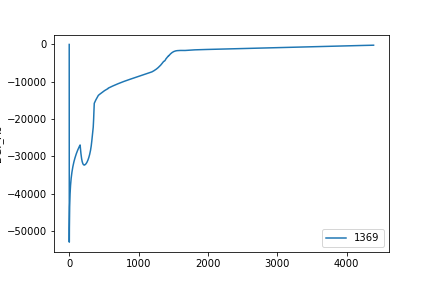
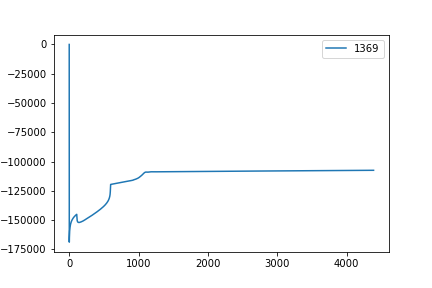
Einheiten Stimmen

diff --git a/Thermomicrobentest.py b/Thermomicrobentest.py
@@ -60,17 +60,15 @@ def thermodynamics(educt_dict, product_dict, microbe_dict):
     Q_educts = 1.0
     for name, educt in educt_dict.items():
         DGf_educt += educt['DGf']
-        Q_educts *= (1*educt['concentration'])**educt['Stoch']
-        # print(name,educt['concentration'], (1e-6*educt['concentration'])**educt['Stoch'])
-
-        
+        Q_educts *= (1e-6*educt['concentration'])**educt['Stoch']
+        # print(name,educt['concentration'], (1e-6*educt['concentration'])**educt['Stoch']) 
     DGf_product = 0
     Q_products = 1.0
     for name, product in product_dict.items():
         DGf_product += product['DGf']
-        Q_products *= (1*product['concentration'])**product['Stoch']
+        Q_products *= (1e-6*product['concentration'])**product['Stoch']
         #print(name,product['concentration'], product['concentration']**product['Stoch'])
-        
+    
     if Q_educts <= 0:
       # print('Q educts = 0, return 0.0')
        return 0.0, 110000000.0
@@ -79,6 +77,7 @@ def thermodynamics(educt_dict, product_dict, microbe_dict):
         #print('Q = 0 for products, return 1')
         return 1.0, 100000000.0
     #print('The Q value is', Q_products/Q_educts)
+    
     
     try:
         log_Q = np.log( Q_products/Q_educts )
@@ -96,11 +95,12 @@ def thermodynamics(educt_dict, product_dict, microbe_dict):
     DGr = DGs + R * T * log_Q
    # print('DGr', DGr)
    
-    DGmin = -26.0
+    DGmin = -26.0 *1e3 # J⋅mol-1
     if DGr > DGmin:
         #print('minimum not reached, return 0', DGr - DGmin)
         return 0.0, DGr
     #print(DGr)
+    
     
     return 1 - np.exp((DGr - DGmin)/(R*T)) , DGr
 
@@ -236,12 +236,12 @@ def GeneralPathway(microbe_dict, educt_dict, product_dict, pathway_name = ''):
     dead_microbes = Biomass*microbe_dict['death_rate']
     #biomass_change = - dead_microbes  + Biomass* W_max *actual_reaction_rate *C_for_growth* 12.011/1000
     
-    biomass_change = - dead_microbes  +  C_for_growth * 12.011/1000 # Gewicht 1 Mol C =  12.011 g /mol 
+    biomass_change = - dead_microbes  +  C_for_growth * m_C #  m_C Gewicht 1 Mol C =  12.011 g /mol 
     pool_change_dict['biomass'] = biomass_change
     # print(biomass_change)
     # input('biomass '+pathway_name)
     #print(DGr_Ausgabe)
-    pool_change_dict['DGr'] = DGr_Ausgabe
+    pool_change_dict['DGr'] = DGr_Ausgabe*1e-3 # umrechnung von J/mol nach kJ/mol für den plot
     #print(pool_change_dict['DGr'])
     return pool_change_dict
 
@@ -368,13 +368,13 @@ def Fe3_Pathway(pool_dict,model_parameter_dict):
     
     educt_dict =  {'Acetate'       : {'concentration':pool_dict['Acetate'],
                                     'Stoch'          : 1                  ,
-                                    'DGf'            : -369.31            ,
+                                    'DGf'            : -369.31*1e3        ,
                                     'Km'             : 0.01 / SOIL_DENSITY, #0.01 / SOIL_DENSITY # wert nach Roden 2003 10 mal kleiner als bei Ace (0.8). Aber passt vlt nicht mehr mit den anderen werten zusammen
                                     'C_atoms'      : 2                    }, 
     
                       'Fe3'        :{'concentration':pool_dict['Fe3'] ,
                                    'Stoch'          : 8                   ,
-                                   'DGf'            : -4.7                ,
+                                   'DGf'            : -4.7*1e3            ,
                                    'Km'             : 0                   }} # TODO WISO 0 ? 
                      
     
@@ -389,11 +389,11 @@ def Fe3_Pathway(pool_dict,model_parameter_dict):
     
     product_dict = { 'Fe2' : {'concentration': pool_dict['Fe2'],
                               'Stoch'        : 8               ,
-                              'DGf'          : -89.1           }  ,#https://www.engineeringtoolbox.com/standard-state-enthalpy-formation-definition-value-Gibbs-free-energy-entropy-molar-heat-capacity-d_1978.html
+                              'DGf'          : -89.1*1e3           }  ,#https://www.engineeringtoolbox.com/standard-state-enthalpy-formation-definition-value-Gibbs-free-energy-entropy-molar-heat-capacity-d_1978.html
                     
                      'CO2' : {'concentration': dissolved_CO2,
                               'Stoch'        : 2               ,
-                              'DGf'          : -394.36                 }  , #Vaxa
+                              'DGf'          : -394.36*1e3                 }  , #Vaxa
                          
                       'H2' : {'concentration': dissolved_H2,
                               'Stoch'        : 0              ,
@@ -443,13 +443,13 @@ def Hydro_Pathway(pool_dict,model_parameter_dict):
     
                   'CO2'  :{'concentration': dissolved_CO2,
                            'Stoch'        : 1                                ,
-                           'DGf'          : -394.36                          ,
+                           'DGf'          : -394.36*1e3                          ,
                            'Km'           : 0.05/SOIL_DENSITY  , # 0.05 mikromol pro cm^3 from Song
                            'C_atoms'      : 1                 }}
     
     product_dict = {'CH4' :{'concentration': dissolved_CH4 , # auf 0 weil es in den Headspace diffundiert
                             'Stoch'        : 1                ,
-                            'DGf'          : -50.8}          }
+                            'DGf'          : -50.8*1e3}          }
    
     
     pool_change_dict = GeneralPathway(microbe_dict, educt_dict, product_dict, 'Hydro')
@@ -490,13 +490,13 @@ def Homo_Pathway(pool_dict,model_parameter_dict):
     
                   'CO2'  :{'concentration' : dissolved_CO2         ,
                            'Stoch'         : 2                     ,
-                           'DGf'           : -394.36               ,
+                           'DGf'           : -394.36*1e3               ,
                            'Km'            : 0.05 / SOIL_DENSITY   ,  # 0.05 from Song, laut (van1999efFe3cts) größer als Hydro, laut schink1997energetics sollte der Wert mit sinkender Temp, mit zunehmendem Acetate und sinkendem PH sinken (Im vlg zu Hydro)
                            'C_atoms'      : 1                 }}
     
     product_dict = {'Acetate' : {'concentration': pool_dict['Acetate'] ,
                                  'Stoch'        : 1                    ,
-                                 'DGf'          : -369.31}             , }
+                                 'DGf'          : -369.31*1e3}             , }
    
     
     pool_change_dict = GeneralPathway(microbe_dict, educt_dict, product_dict, 'Homo')
@@ -524,7 +524,7 @@ def Ac_Pathway(pool_dict,model_parameter_dict):
     
     educt_dict = { 'Acetate' : {'concentration': pool_dict['Acetate']    ,
                                 'Stoch'        :  1                     ,
-                                 'DGf'         : -369.31                ,
+                                 'DGf'         : -369.31*1e3                ,
                                  'Km'          :  0.05 / SOIL_DENSITY   , #0.05 / SOIL_DENSITY   # 0.05 from song, Wert sollte 10 mal höher sein als bei AltE laut roden2003 bei 12Mikromol !!!!
                                  'C_atoms'      : 2                 }}
     
@@ -537,11 +537,11 @@ def Ac_Pathway(pool_dict,model_parameter_dict):
                       
     product_dict = { 'CH4' : {'concentration': dissolved_CH4, #auf 0, weil es in den Headspace diffundiert
                               'Stoch'        : 1               ,
-                              'DGf'          : -50.8          }, # wert aus Vaxa
+                              'DGf'          : -50.8*1e3          }, # wert aus Vaxa
                     
                      'CO2' : {'concentration': dissolved_CO2,
                               'Stoch'        : 1               ,
-                              'DGf'          :-394.36         } }
+                              'DGf'          :-394.36*1e3         } }
 
     
     pool_change_dict = GeneralPathway(microbe_dict, educt_dict, product_dict, 'Ac')

diff --git a/Thermorefactored.py b/Thermorefactored.py
@@ -724,43 +724,43 @@ def run_my_model(specimens, Site = "all"):#, Cpool_init = 5555.5):
    # input() 
    
    
-# ============PLOTTINg=================================================================
-#    
-#     #return None # exit before plotting to save time when profiling
-#    
-#     for k,v in pool_value_dict.items():
-#         #
-#         #print('the length is:',len(pool_value_dict['CO2']))
-#         plt.figure()
-#         plt.plot(all_days,v,'.')
-#         plt.ylabel(k)
-#          
-#     all_CO2_contributers = dict()
-#     for pool_name, pool_curve in pool_value_dict.items():
-#         if "CO2" in pool_name:
-#             all_CO2_contributers[pool_name] = pool_curve
-#     plt.figure()
-#     for pool_name, pool_curve in all_CO2_contributers.items():
-#         plt.plot( pool_curve, label= pool_name)
-#     plt.legend()    
-#         
-#     all_CH4_contributers = dict()
-#     for pool_name, pool_curve in pool_value_dict.items():
-#         if "CH4" in pool_name:
-#             all_CH4_contributers[pool_name] = pool_curve
-#     plt.figure()
-#     for pool_name, pool_curve in all_CH4_contributers.items():
-#         plt.plot( pool_curve, label= pool_name)
-#     plt.legend()
-#     
-#     plt.figure()
-#     plt.plot( Realdata['measured_time'],Realdata['CH4'],'ro')
-#     plt.plot(pool_value_dict['CH4'])
-#     plt.figure()
-#     plt.plot( Realdata['measured_time'], Realdata['CO2'],'bo')
-#     plt.plot(pool_value_dict['CO2'])
-#     
-# =============================================================================
+#============PLOTTINg=================================================================
+    
+    #return None # exit before plotting to save time when profiling
+    
+    for k,v in pool_value_dict.items():
+        #
+        #print('the length is:',len(pool_value_dict['CO2']))
+        plt.figure()
+        plt.plot(all_days,v,'.')
+        plt.ylabel(k)
+          
+    all_CO2_contributers = dict()
+    for pool_name, pool_curve in pool_value_dict.items():
+        if "CO2" in pool_name:
+            all_CO2_contributers[pool_name] = pool_curve
+    plt.figure()
+    for pool_name, pool_curve in all_CO2_contributers.items():
+        plt.plot( pool_curve, label= pool_name)
+    plt.legend()    
+        
+    all_CH4_contributers = dict()
+    for pool_name, pool_curve in pool_value_dict.items():
+        if "CH4" in pool_name:
+            all_CH4_contributers[pool_name] = pool_curve
+    plt.figure()
+    for pool_name, pool_curve in all_CH4_contributers.items():
+        plt.plot( pool_curve, label= pool_name)
+    plt.legend()
+    
+    plt.figure()
+    plt.plot( Realdata['measured_time'],Realdata['CH4'],'ro')
+    plt.plot(pool_value_dict['CH4'])
+    plt.figure()
+    plt.plot( Realdata['measured_time'], Realdata['CO2'],'bo')
+    plt.plot(pool_value_dict['CO2'])
+    
+#=============================================================================
     
    
     
@@ -771,12 +771,20 @@ def run_my_model(specimens, Site = "all"):#, Cpool_init = 5555.5):
     ax1.plot(all_days, pool_value_dict['Acetate'], label = 'Acetate')
     ax1.plot(all_days, pool_value_dict['DOC']/2, label = 'DOC')
     ax2 = ax1.twinx()
-    ax2.plot(all_days, pool_value_dict['DGr_Ac'], 'magenta', label = 'DGr_Ac')
-    ax2.plot(all_days, pool_value_dict['DGr_Fe3'], 'lime', label = 'DGr_Fe3')
+    ax2.plot(all_days, pool_value_dict['DGr_Ac kJ/mol'], 'magenta', label = 'DGr_Ac kJ/mol')
+    ax2.plot(all_days, pool_value_dict['DGr_Fe3 kJ/mol'], 'lime', label = 'DGr_Fe3 kJ/mol')
     fig.tight_layout()
     ax1.legend()
     ax2.legend()
     #plt.show()
+    plt.figure()
+    plt.plot(all_days, pool_value_dict['DGr_Homo kJ/mol'], 'lime', label = 'DGr_Homo kJ/mol')
+    plt.legend()
+    
+    plt.figure()
+    plt.plot(all_days, pool_value_dict['DGr_Hydro kJ/mol'], 'lime', label = 'DGr_Hydro kJ/mol')
+    plt.legend()
+
 
 
     plt.figure()

diff --git a/Thermomodel.py b/Thermomodel.py
@@ -107,10 +107,10 @@ def Cdec_wrapper(model_parameter_dict, return_thermodynamics = False):
             #extra_dict['Fe2_Fe3'] = pool_change_dict_Fe3['Fe2'] if 'Fe2' in pool_change_dict_Fe3 else 0.
             
             #
-            extra_dict['DGr_Fe3'] = pool_change_dict_Fe3['DGr'] if 'DGr' in pool_change_dict_Fe3 else 0
-            extra_dict['DGr_Hydro'] = pool_change_dict_Hydro['DGr'] if 'DGr' in pool_change_dict_Hydro else 0.
-            extra_dict['DGr_Homo'] = pool_change_dict_Homo['DGr'] if 'DGr' in pool_change_dict_Homo else 0.
-            extra_dict['DGr_Ac'] = pool_change_dict_Ac['DGr'] if 'DGr' in pool_change_dict_Ac else 0.
+            extra_dict['DGr_Fe3 kJ/mol'] = pool_change_dict_Fe3['DGr'] if 'DGr' in pool_change_dict_Fe3 else 0
+            extra_dict['DGr_Hydro kJ/mol'] = pool_change_dict_Hydro['DGr'] if 'DGr' in pool_change_dict_Hydro else 0.
+            extra_dict['DGr_Homo kJ/mol'] = pool_change_dict_Homo['DGr'] if 'DGr' in pool_change_dict_Homo else 0.
+            extra_dict['DGr_Ac kJ/mol'] = pool_change_dict_Ac['DGr'] if 'DGr' in pool_change_dict_Ac else 0.
                     
             return pool_changes_array, extra_dict
         

diff --git a/scaling.py b/scaling.py
@@ -33,7 +33,7 @@ scaling_factors = {
         }
 scaling_factors = {k:v*1. for k,v in scaling_factors.items()}
 
-#scaling_factors = {k:1.0 for k,v in scaling_factors.items()} # switches off scaling
+scaling_factors = {k:1.0 for k,v in scaling_factors.items()} # switches off scaling
 
 
 
